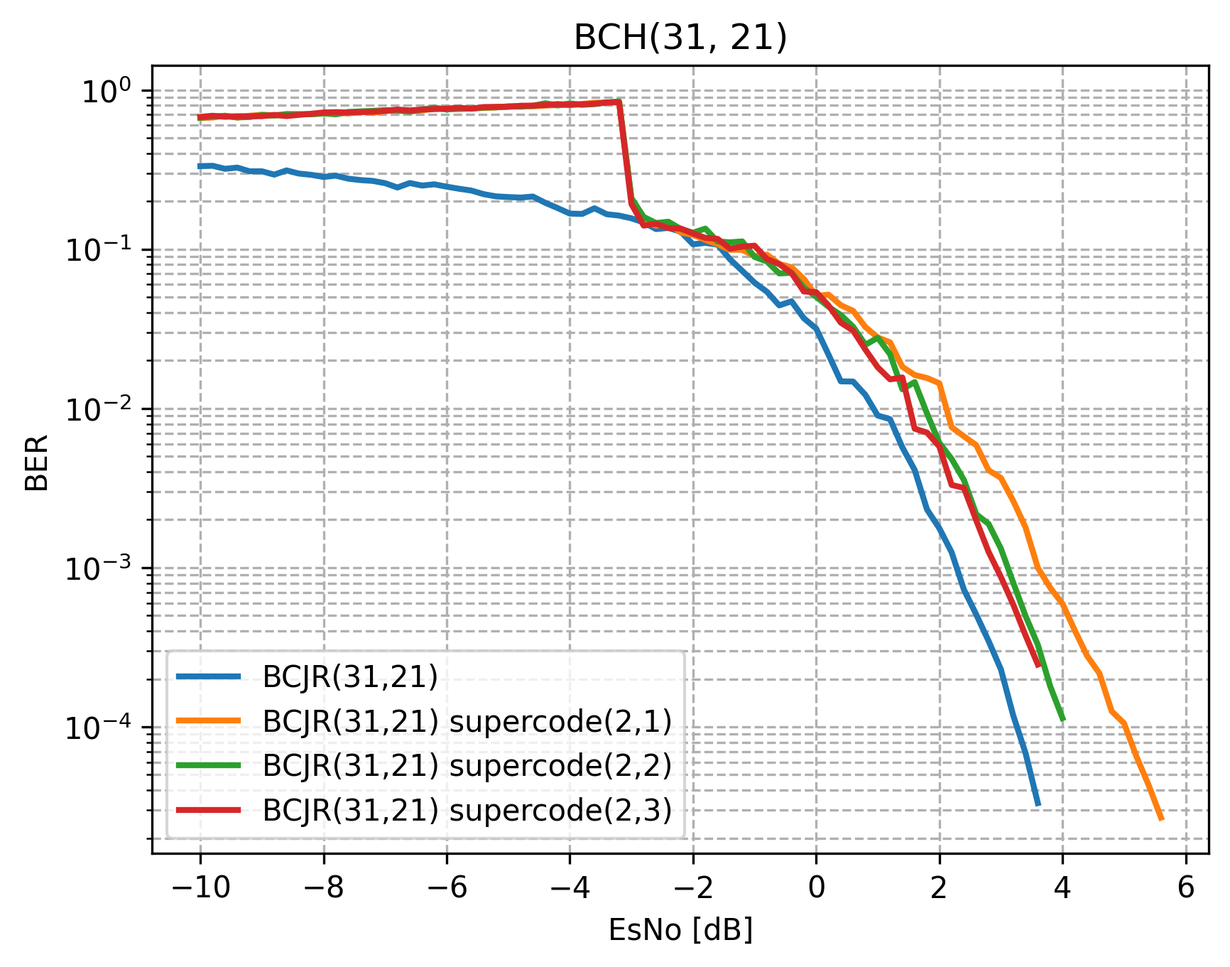
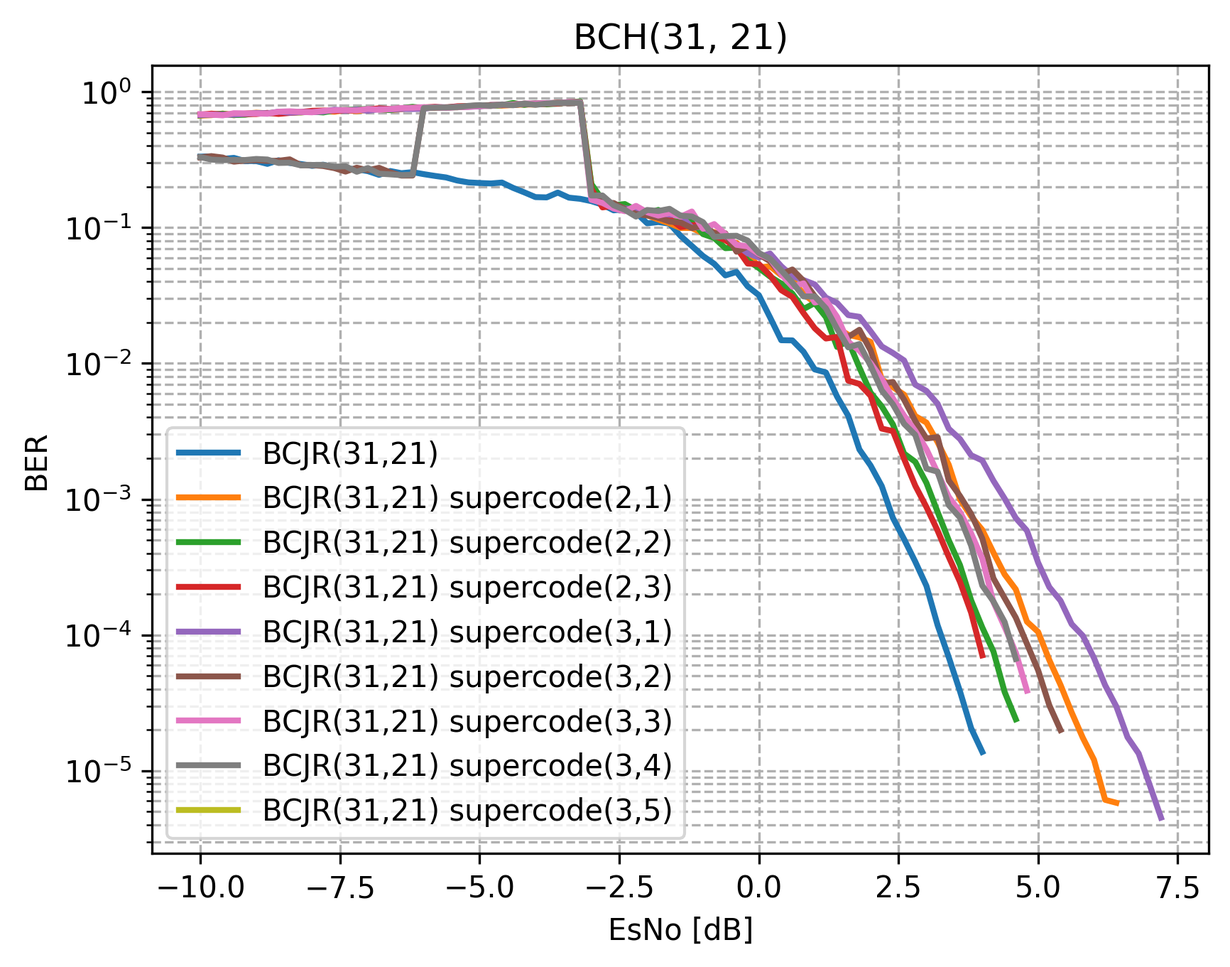
bch31_21 some plots upd

diff --git a/plot_bch_31_21_complex.py b/plot_bch_31_21_complex.py
@@ -1,67 +1,70 @@
 import matplotlib.pyplot as plt
 from scipy.ndimage import gaussian_filter1d
 #-----------------------BCH(31,21) original----------------------------------------------------------------
-esno_bch_31_21 = [-10, -9.8, -9.6, -9.4, -9.2, -9.0, -8.8, -8.6, -8.4, -8.2, -8.0, -7.8, -7.6, -7.4, -7.2, -7.0, -6.8, -6.6, -6.4, -6.2, -6.0, -5.8, -5.6, -5.4, -5.2, -5.0, -4.8, -4.6, -4.4, -4.2, -4.0, -3.8, -3.6, -3.4, -3.2, -3.0, -2.8, -2.6, -2.4, -2.2, -2.0, -1.8, -1.6, -1.4, -1.2, -1.0, -0.8, -0.6, -0.4, -0.2, -0.0, 0.2, 0.4, 0.6, 0.8, 1.0, 1.2, 1.4, 1.6, 1.8, 2, 2.2, 2.4, 2.6, 2.8, 3.0, 3.2, 3.4, 3.6,]
-fer_bch_31_21 = [1.0, 1.0, 1.0, 1.0, 1.0, 1.0, 1.0, 1.0, 1.0, 1.0, 1.0, 1.0, 1.0, 1.0, 1.0, 1.0, 1.0, 1.0, 1.0, 1.0, 1.0, 1.0, 1.0, 1.0, 1.0, 1.0, 1.0, 1.0, 1.0, 1.0, 0.9917355371900827, 0.9917355371900827, 0.9917355371900827, 1.0, 1.0, 0.967741935483871, 0.96, 0.9302325581395349, 0.967741935483871, 0.8888888888888888, 0.821917808219178, 0.7843137254901961, 0.759493670886076, 0.6703910614525139, 0.5429864253393665, 0.46511627906976744, 0.40540540540540543, 0.3418803418803419, 0.32432432432432434, 0.24048096192384769, 0.20761245674740483, 0.1362088535754824, 0.09724473257698542, 0.08836524300441827, 0.07439553626782393, 0.056100981767180924, 0.048484848484848485, 0.03293084522502744, 0.02306805074971165, 0.013211493999779809, 0.009936242444315641, 0.006948465547191662, 0.004155268534229025, 0.0028578913524970827, 0.0019907100199071004, 0.001316049220240837, 0.0006781116849945186, 0.0003866789114988641, 0.00019648470991711917, ]
-ber_bch_31_21 = [0.33252688172043016, 0.33413978494623653, 0.3198924731182796, 0.3255376344086021, 0.3086021505376344, 0.3086021505376344, 0.2940860215053763, 0.3126344086021505, 0.2986559139784946, 0.2932795698924731, 0.28440860215053765, 0.28978494623655915, 0.27741935483870966, 0.27177419354838706, 0.2685483870967742, 0.2599462365591398, 0.24408602150537634, 0.26048387096774195, 0.2510752688172043, 0.25564516129032255, 0.24704301075268817, 0.23978494623655913, 0.2336021505376344, 0.2217741935483871, 0.21478494623655914, 0.21263440860215052, 0.2110215053763441, 0.214247311827957, 0.1956989247311828, 0.1814516129032258, 0.1674220207944548, 0.16662223407091442, 0.18075179952012796, 0.16586021505376344, 0.16263440860215053, 0.15634755463059313, 0.14735483870967742, 0.13378344586146537, 0.13605619146722164, 0.12879330943847073, 0.10737958462218294, 0.10963525195024246, 0.10677827684769294, 0.08650207244548568, 0.07312801050941468, 0.061640410102525627, 0.05405405405405406, 0.04438930245381858, 0.047079337401918046, 0.03684788932704118, 0.0317557763143208, 0.021786093515433345, 0.014795838343702619, 0.014751294598318209, 0.012159270443773374, 0.009018383628165105, 0.008563049853372435, 0.005692078892390496, 0.00410512085922288, 0.002319114403724789, 0.001768223789821762, 0.0012477352111623736, 0.0007271719934900792, 0.0005070452399591598, 0.00034623370507524026, 0.00022960106019793096, 0.00011794039252458429, 6.850037706391168e-05, 3.3189206132627755e-05,]
-plt.plot(esno_bch_31_21, fer_bch_31_21, label="BCJR(31,21)", linewidth=2)
-# plt.plot(esno_bch_31_21, ber_bch_31_21, label="BCJR(31,21)", linewidth=2)
+esno_bch_31_21 = [-10, -9.8, -9.6, -9.4, -9.2, -9.0, -8.8, -8.6, -8.4, -8.2, -8.0, -7.8, -7.6, -7.4, -7.2, -7.0, -6.8, -6.6, -6.4, -6.2, -6.0, -5.8, -5.6, -5.4, -5.2, -5.0, -4.8, -4.6, -4.4, -4.2, -4.0, -3.8, -3.6, -3.4, -3.2, -3.0, -2.8, -2.6, -2.4, -2.2, -2.0, -1.8, -1.6, -1.4, -1.2, -1.0, -0.8, -0.6, -0.4, -0.2, -0.0, 0.2, 0.4, 0.6, 0.8, 1.0, 1.2, 1.4, 1.6, 1.8, 2, 2.2, 2.4, 2.6, 2.8, 3.0, 3.2, 3.4, 3.6, 3.8, 4.0, ]
+fer_bch_31_21 = [1.0, 1.0, 1.0, 1.0, 1.0, 1.0, 1.0, 1.0, 1.0, 1.0, 1.0, 1.0, 1.0, 1.0, 1.0, 1.0, 1.0, 1.0, 1.0, 1.0, 1.0, 1.0, 1.0, 1.0, 1.0, 1.0, 1.0, 1.0, 1.0, 1.0, 0.9917355371900827, 0.9917355371900827, 0.9917355371900827, 1.0, 1.0, 0.967741935483871, 0.96, 0.9302325581395349, 0.967741935483871, 0.8888888888888888, 0.821917808219178, 0.7843137254901961, 0.759493670886076, 0.6703910614525139, 0.5429864253393665, 0.46511627906976744, 0.40540540540540543, 0.3418803418803419, 0.32432432432432434, 0.24048096192384769, 0.20761245674740483, 0.1362088535754824, 0.09724473257698542, 0.08836524300441827, 0.07439553626782393, 0.056100981767180924, 0.048484848484848485, 0.03293084522502744, 0.02306805074971165, 0.013211493999779809, 0.009936242444315641, 0.006948465547191662, 0.004155268534229025, 0.0028578913524970827, 0.0019907100199071004, 0.001316049220240837, 0.0006781116849945186, 0.0003866789114988641, 0.00022117817929809104, 0.00011824267732952855, 8.012023376413538e-05, ]
+ber_bch_31_21 = [0.33252688172043016, 0.33413978494623653, 0.3198924731182796, 0.3255376344086021, 0.3086021505376344, 0.3086021505376344, 0.2940860215053763, 0.3126344086021505, 0.2986559139784946, 0.2932795698924731, 0.28440860215053765, 0.28978494623655915, 0.27741935483870966, 0.27177419354838706, 0.2685483870967742, 0.2599462365591398, 0.24408602150537634, 0.26048387096774195, 0.2510752688172043, 0.25564516129032255, 0.24704301075268817, 0.23978494623655913, 0.2336021505376344, 0.2217741935483871, 0.21478494623655914, 0.21263440860215052, 0.2110215053763441, 0.214247311827957, 0.1956989247311828, 0.1814516129032258, 0.1674220207944548, 0.16662223407091442, 0.18075179952012796, 0.16586021505376344, 0.16263440860215053, 0.15634755463059313, 0.14735483870967742, 0.13378344586146537, 0.13605619146722164, 0.12879330943847073, 0.10737958462218294, 0.10963525195024246, 0.10677827684769294, 0.08650207244548568, 0.07312801050941468, 0.061640410102525627, 0.05405405405405406, 0.04438930245381858, 0.047079337401918046, 0.03684788932704118, 0.0317557763143208, 0.021786093515433345, 0.014795838343702619, 0.014751294598318209, 0.012159270443773374, 0.009018383628165105, 0.008563049853372435, 0.005692078892390496, 0.00410512085922288, 0.002319114403724789, 0.001768223789821762, 0.0012477352111623736, 0.0007271719934900792, 0.0005070452399591598, 0.00034623370507524026, 0.00022960106019793096, 0.00011794039252458429, 6.850037706391168e-05, 3.852781187773199e-05, 2.0597111534821102e-05, 1.376258854174261e-05,]
+# plt.plot(esno_bch_31_21, fer_bch_31_21, label="BCJR(31,21)", linewidth=2)
+plt.plot(esno_bch_31_21, ber_bch_31_21, label="BCJR(31,21)", linewidth=2)
 
 
 #-----------------------BCH(31,21) supercode----------------------------------------------------------------
-esno_bch_31_21_supercode_2_matrix_1_iter = [-10, -9.8, -9.6, -9.4, -9.2, -9.0, -8.8, -8.6, -8.4, -8.2, -8.0, -7.8, -7.6, -7.4, -7.2, -7.0, -6.8, -6.6, -6.4, -6.2, -6.0, -5.8, -5.6, -5.4, -5.2, -5.0, -4.8, -4.6, -4.4, -4.2, -4.0, -3.8, -3.6, -3.4, -3.2, -3.0, -2.8, -2.6, -2.4, -2.2, -2.0, -1.8, -1.6, -1.4, -1.2, -1.0, -0.8, -0.6, -0.4, -0.2, -0.0, 0.2, 0.4, 0.6, 0.8, 1.0, 1.2, 1.4, 1.6, 1.8, 2.0, 2.2, 2.4, 2.6, 2.8, 3.0, 3.2, 3.4, 3.6, 3.8, 4.0, 4.2, 4.4, 4.6, 4.8, 5.0, 5.2, 5.4, 5.6,]
-fer_bch_31_21_supercode_2_matrix_1_iter = [1.0, 1.0, 1.0, 1.0, 1.0, 1.0, 1.0, 1.0, 1.0, 1.0, 1.0, 1.0, 1.0, 1.0, 1.0, 1.0, 1.0, 1.0, 1.0, 1.0, 1.0, 1.0, 1.0, 1.0, 1.0, 1.0, 1.0, 1.0, 1.0, 1.0, 1.0, 1.0, 1.0, 1.0, 1.0, 0.975609756097561, 0.967741935483871, 0.9836065573770492, 0.9836065573770492, 0.96, 0.9523809523809523, 0.8888888888888888, 0.8759124087591241, 0.8955223880597015, 0.8, 0.7792207792207793, 0.7643312101910829, 0.75, 0.7017543859649122, 0.6779661016949152, 0.5309734513274337, 0.5286343612334802, 0.5063291139240507, 0.45112781954887216, 0.3870967741935484, 0.33240997229916897, 0.2977667493796526, 0.23255813953488372, 0.2185792349726776, 0.19639934533551553, 0.192, 0.1343784994400896, 0.10752688172043011, 0.09036144578313253, 0.065323897659227, 0.05946481665014866, 0.044626255113425065, 0.03560830860534125, 0.021197668256491786, 0.016183412002697236, 0.012918505759500484, 0.009155413138017853, 0.006532034184312231, 0.004884800130261337, 0.0032344141667340503, 0.0026467863602276237, 0.0018270401948842874, 0.001219884111009454, 0.0007881411035289018,]
-ber_bch_31_21_supercode_2_matrix_1_iter = [0.6666666666666666, 0.6717741935483871, 0.6900537634408602, 0.6706989247311828, 0.6889784946236559, 0.7, 0.693010752688172, 0.707258064516129, 0.703763440860215, 0.7040322580645161, 0.7126344086021505, 0.7196236559139785, 0.7126344086021505, 0.7295698924731183, 0.7182795698924731, 0.7365591397849462, 0.7454301075268818, 0.7330645161290322, 0.7440860215053764, 0.7634408602150538, 0.7591397849462366, 0.7591397849462366, 0.7669354838709678, 0.771505376344086, 0.7774193548387097, 0.7908602150537635, 0.7943548387096775, 0.789516129032258, 0.7978494623655913, 0.8048387096774193, 0.8040322580645162, 0.8169354838709677, 0.831989247311828, 0.831989247311828, 0.8422043010752688, 0.20744820351429322, 0.14698231009365245, 0.1404019037546272, 0.14436805922792173, 0.1272258064516129, 0.12314388120839734, 0.11445639187574672, 0.10736990817047327, 0.09918151179585942, 0.09913978494623656, 0.09049015500628405, 0.09245942058763099, 0.08084677419354838, 0.07696661007357103, 0.06506287588846364, 0.05081358835284042, 0.05186869404575813, 0.04450796243364639, 0.04098957070094591, 0.03246618106139438, 0.027879546063801268, 0.026014568158168577, 0.01825456364091023, 0.01621716904635995, 0.015521883744258488, 0.0144, 0.007622006285445942, 0.0066770724939299335, 0.005878352118150019, 0.004091523697473089, 0.0036606029604527, 0.0026271908252258305, 0.00178998755623624, 0.0009972021357220599, 0.0007482652861462163, 0.0005938345389447804, 0.00040362574049326015, 0.0002791917836843131, 0.00021666452190675283, 0.00012520312903486648, 0.00010530225304131406, 6.532159836548662e-05, 4.295828455436518e-05, 2.6906967781766272e-05,]
-plt.plot(esno_bch_31_21_supercode_2_matrix_1_iter, fer_bch_31_21_supercode_2_matrix_1_iter, label="BCJR(31,21) supercode(2,1)", linewidth=2)
-# plt.plot(esno_bch_31_21_supercode_2_matrix_1_iter, ber_bch_31_21_supercode_2_matrix_1_iter, label="BCJR(31,21) supercode(2,1)", linewidth=2)
+esno_bch_31_21_supercode_2_matrix_1_iter = [-10, -9.8, -9.6, -9.4, -9.2, -9.0, -8.8, -8.6, -8.4, -8.2, -8.0, -7.8, -7.6, -7.4, -7.2, -7.0, -6.8, -6.6, -6.4, -6.2, -6.0, -5.8, -5.6, -5.4, -5.2, -5.0, -4.8, -4.6, -4.4, -4.2, -4.0, -3.8, -3.6, -3.4, -3.2, -3.0, -2.8, -2.6, -2.4, -2.2, -2.0, -1.8, -1.6, -1.4, -1.2, -1.0, -0.8, -0.6, -0.4, -0.2, -0.0, 0.2, 0.4, 0.6, 0.8, 1.0, 1.2, 1.4, 1.6, 1.8, 2.0, 2.2, 2.4, 2.6, 2.8, 3.0, 3.2, 3.4, 3.6, 3.8, 4.0, 4.2, 4.4, 4.6, 4.8, 5.0, 5.2, 5.4, 5.6, 5.8, 6.0, 6.2, 6.4,]
+fer_bch_31_21_supercode_2_matrix_1_iter = [1.0, 1.0, 1.0, 1.0, 1.0, 1.0, 1.0, 1.0, 1.0, 1.0, 1.0, 1.0, 1.0, 1.0, 1.0, 1.0, 1.0, 1.0, 1.0, 1.0, 1.0, 1.0, 1.0, 1.0, 1.0, 1.0, 1.0, 1.0, 1.0, 1.0, 1.0, 1.0, 1.0, 1.0, 1.0, 0.975609756097561, 0.967741935483871, 0.9836065573770492, 0.9836065573770492, 0.96, 0.9523809523809523, 0.8888888888888888, 0.8759124087591241, 0.8955223880597015, 0.8, 0.7792207792207793, 0.7643312101910829, 0.75, 0.7017543859649122, 0.6779661016949152, 0.5309734513274337, 0.5286343612334802, 0.5063291139240507, 0.45112781954887216, 0.3870967741935484, 0.33240997229916897, 0.2977667493796526, 0.23255813953488372, 0.2185792349726776, 0.19639934533551553, 0.192, 0.1343784994400896, 0.10752688172043011, 0.09036144578313253, 0.065323897659227, 0.05946481665014866, 0.044626255113425065, 0.03560830860534125, 0.021197668256491786, 0.016183412002697236, 0.012918505759500484, 0.009155413138017853, 0.006532034184312231, 0.004884800130261337, 0.0032344141667340503, 0.0026467863602276237, 0.0018270401948842874, 0.001219884111009454, 0.0007881411035289018, 0.0005001396223112285, 0.00036158409994184524, 0.00018627205965673164, 0.0001433549970427677,]
+ber_bch_31_21_supercode_2_matrix_1_iter = [0.6666666666666666, 0.6717741935483871, 0.6900537634408602, 0.6706989247311828, 0.6889784946236559, 0.7, 0.693010752688172, 0.707258064516129, 0.703763440860215, 0.7040322580645161, 0.7126344086021505, 0.7196236559139785, 0.7126344086021505, 0.7295698924731183, 0.7182795698924731, 0.7365591397849462, 0.7454301075268818, 0.7330645161290322, 0.7440860215053764, 0.7634408602150538, 0.7591397849462366, 0.7591397849462366, 0.7669354838709678, 0.771505376344086, 0.7774193548387097, 0.7908602150537635, 0.7943548387096775, 0.789516129032258, 0.7978494623655913, 0.8048387096774193, 0.8040322580645162, 0.8169354838709677, 0.831989247311828, 0.831989247311828, 0.8422043010752688, 0.20744820351429322, 0.14698231009365245, 0.1404019037546272, 0.14436805922792173, 0.1272258064516129, 0.12314388120839734, 0.11445639187574672, 0.10736990817047327, 0.09918151179585942, 0.09913978494623656, 0.09049015500628405, 0.09245942058763099, 0.08084677419354838, 0.07696661007357103, 0.06506287588846364, 0.05081358835284042, 0.05186869404575813, 0.04450796243364639, 0.04098957070094591, 0.03246618106139438, 0.027879546063801268, 0.026014568158168577, 0.01825456364091023, 0.01621716904635995, 0.015521883744258488, 0.0144, 0.007622006285445942, 0.0066770724939299335, 0.005878352118150019, 0.004091523697473089, 0.0036606029604527, 0.0026271908252258305, 0.00178998755623624, 0.0009972021357220599, 0.0007482652861462163, 0.0005938345389447804, 0.00040362574049326015, 0.0002791917836843131, 0.00021666452190675283, 0.00012520312903486648, 0.00010530225304131406, 6.532159836548662e-05, 4.295828455436518e-05, 2.6906967781766272e-05, 1.7477997553887017e-05, 1.2052803331394841e-05, 6.108922386591737e-06, 5.8113945877714665e-06,]
+# plt.plot(esno_bch_31_21_supercode_2_matrix_1_iter, fer_bch_31_21_supercode_2_matrix_1_iter, label="BCJR(31,21) supercode(2,1)", linewidth=2)
+plt.plot(esno_bch_31_21_supercode_2_matrix_1_iter, ber_bch_31_21_supercode_2_matrix_1_iter, label="BCJR(31,21) supercode(2,1)", linewidth=2)
 
 
-esno_bch_31_21_supercode_2_matrix_2_iter = [-10, -9.8, -9.6, -9.4, -9.2, -9.0, -8.8, -8.6, -8.4, -8.2, -8.0, -7.8, -7.6, -7.4, -7.2, -7.0, -6.8, -6.6, -6.4, -6.2, -6.0, -5.8, -5.6, -5.4, -5.2, -5.0, -4.8, -4.6, -4.4, -4.2, -4.0, -3.8, -3.6, -3.4, -3.2, -3.0, -2.8, -2.6, -2.4, -2.2, -2.0, -1.8, -1.6, -1.4, -1.2, -1.0, -0.8, -0.6, -0.4, -0.2, -0.0, 0.2, 0.4, 0.6, 0.8, 1.0, 1.2, 1.4, 1.6, 1.8, 2.0, 2.2, 2.4, 2.6, 2.8, 3.0, 3.2, 3.4, 3.6, 3.8, 4.0,]
-fer_bch_31_21_supercode_2_matrix_2_iter = [1.0, 1.0, 1.0, 1.0, 1.0, 1.0, 1.0, 1.0, 1.0, 1.0, 1.0, 1.0, 1.0, 1.0, 1.0, 1.0, 1.0, 1.0, 1.0, 1.0, 1.0, 1.0, 1.0, 1.0, 1.0, 1.0, 1.0, 1.0, 1.0, 1.0, 1.0, 1.0, 1.0, 1.0, 1.0, 0.9917355371900827, 0.9836065573770492, 0.96, 0.9448818897637795, 0.9022556390977443, 0.8633093525179856, 0.9230769230769231, 0.7894736842105263, 0.7741935483870968, 0.7317073170731707, 0.6349206349206349, 0.5741626794258373, 0.4897959183673469, 0.4897959183673469, 0.4316546762589928, 0.375, 0.3133159268929504, 0.2857142857142857, 0.2597402597402597, 0.19138755980861244, 0.21897810218978103, 0.17543859649122806, 0.12486992715920915, 0.11417697431018078, 0.08333333333333333, 0.05862237420615535, 0.04631416441528367, 0.03428571428571429, 0.023464998044583497, 0.01882648258550361, 0.015170670037926675, 0.008913980092111128, 0.0054456344164095115, 0.0036711842628567933, 0.0023938716884774978, 0.0015356658391134088,]
-ber_bch_31_21_supercode_2_matrix_2_iter = [0.6704301075268817, 0.6803763440860214, 0.6879032258064516, 0.6728494623655913, 0.6766129032258064, 0.6956989247311828, 0.6911290322580645, 0.7026881720430108, 0.7045698924731183, 0.7043010752688172, 0.7131720430107527, 0.7032258064516129, 0.728225806451613, 0.7338709677419355, 0.739516129032258, 0.746505376344086, 0.743010752688172, 0.731720430107527, 0.7545698924731182, 0.7733870967741936, 0.7551075268817204, 0.7650537634408603, 0.7639784946236559, 0.7758064516129032, 0.7776881720430108, 0.7879032258064516, 0.785752688172043, 0.7959677419354839, 0.8255376344086022, 0.7991935483870968, 0.8241935483870968, 0.8067204301075269, 0.8166666666666667, 0.8341397849462365, 0.8475806451612903, 0.20927752599306854, 0.15943945002644105, 0.14606451612903226, 0.14884429768859536, 0.134125636672326, 0.12694360640519842, 0.1347394540942928, 0.1118421052631579, 0.1105098855359001, 0.11191974822974037, 0.08943505717699266, 0.08380922981941658, 0.07044107965766952, 0.07109940750493746, 0.05732188442794152, 0.050302419354838715, 0.04354417586119767, 0.038632872503840246, 0.03260717776846809, 0.025106755157688943, 0.027784318342359313, 0.02188266364836823, 0.013191903595045483, 0.01464043460912802, 0.009296594982078852, 0.006082859259025797, 0.004818167104493221, 0.0035483870967741938, 0.0021635737444333706, 0.0018826482585503608, 0.0013172382855511603, 0.0008051336857390696, 0.0004977192746180736, 0.0003276433266850686, 0.00018018389053056435, 0.00011352368434306115,]
-plt.plot(esno_bch_31_21_supercode_2_matrix_2_iter, fer_bch_31_21_supercode_2_matrix_2_iter, label="BCJR(31,21) supercode(2,2)", linewidth=2)
-# plt.plot(esno_bch_31_21_supercode_2_matrix_2_iter, ber_bch_31_21_supercode_2_matrix_2_iter, label="BCJR(31,21) supercode(2,2)", linewidth=2)
+esno_bch_31_21_supercode_2_matrix_2_iter = [-10, -9.8, -9.6, -9.4, -9.2, -9.0, -8.8, -8.6, -8.4, -8.2, -8.0, -7.8, -7.6, -7.4, -7.2, -7.0, -6.8, -6.6, -6.4, -6.2, -6.0, -5.8, -5.6, -5.4, -5.2, -5.0, -4.8, -4.6, -4.4, -4.2, -4.0, -3.8, -3.6, -3.4, -3.2, -3.0, -2.8, -2.6, -2.4, -2.2, -2.0, -1.8, -1.6, -1.4, -1.2, -1.0, -0.8, -0.6, -0.4, -0.2, -0.0, 0.2, 0.4, 0.6, 0.8, 1.0, 1.2, 1.4, 1.6, 1.8, 2.0, 2.2, 2.4, 2.6, 2.8, 3.0, 3.2, 3.4, 3.6, 3.8, 4.0, 4.2, 4.4, 4.6,]
+fer_bch_31_21_supercode_2_matrix_2_iter = [1.0, 1.0, 1.0, 1.0, 1.0, 1.0, 1.0, 1.0, 1.0, 1.0, 1.0, 1.0, 1.0, 1.0, 1.0, 1.0, 1.0, 1.0, 1.0, 1.0, 1.0, 1.0, 1.0, 1.0, 1.0, 1.0, 1.0, 1.0, 1.0, 1.0, 1.0, 1.0, 1.0, 1.0, 1.0, 0.9917355371900827, 0.9836065573770492, 0.96, 0.9448818897637795, 0.9022556390977443, 0.8633093525179856, 0.9230769230769231, 0.7894736842105263, 0.7741935483870968, 0.7317073170731707, 0.6349206349206349, 0.5741626794258373, 0.4897959183673469, 0.4897959183673469, 0.4316546762589928, 0.375, 0.3133159268929504, 0.2857142857142857, 0.2597402597402597, 0.19138755980861244, 0.21897810218978103, 0.17543859649122806, 0.12486992715920915, 0.11417697431018078, 0.08333333333333333, 0.05862237420615535, 0.04631416441528367, 0.03428571428571429, 0.023464998044583497, 0.01882648258550361, 0.015170670037926675, 0.008913980092111128, 0.0054456344164095115, 0.0036711842628567933, 0.0023938716884774978, 0.0015356658391134088, 0.0009758398321555488, 0.0005846756511825065, 0.0003776233018752144,]
+ber_bch_31_21_supercode_2_matrix_2_iter = [0.6704301075268817, 0.6803763440860214, 0.6879032258064516, 0.6728494623655913, 0.6766129032258064, 0.6956989247311828, 0.6911290322580645, 0.7026881720430108, 0.7045698924731183, 0.7043010752688172, 0.7131720430107527, 0.7032258064516129, 0.728225806451613, 0.7338709677419355, 0.739516129032258, 0.746505376344086, 0.743010752688172, 0.731720430107527, 0.7545698924731182, 0.7733870967741936, 0.7551075268817204, 0.7650537634408603, 0.7639784946236559, 0.7758064516129032, 0.7776881720430108, 0.7879032258064516, 0.785752688172043, 0.7959677419354839, 0.8255376344086022, 0.7991935483870968, 0.8241935483870968, 0.8067204301075269, 0.8166666666666667, 0.8341397849462365, 0.8475806451612903, 0.20927752599306854, 0.15943945002644105, 0.14606451612903226, 0.14884429768859536, 0.134125636672326, 0.12694360640519842, 0.1347394540942928, 0.1118421052631579, 0.1105098855359001, 0.11191974822974037, 0.08943505717699266, 0.08380922981941658, 0.07044107965766952, 0.07109940750493746, 0.05732188442794152, 0.050302419354838715, 0.04354417586119767, 0.038632872503840246, 0.03260717776846809, 0.025106755157688943, 0.027784318342359313, 0.02188266364836823, 0.013191903595045483, 0.01464043460912802, 0.009296594982078852, 0.006082859259025797, 0.004818167104493221, 0.0035483870967741938, 0.0021635737444333706, 0.0018826482585503608, 0.0013172382855511603, 0.0008051336857390696, 0.0004977192746180736, 0.0003276433266850686, 0.00018018389053056435, 0.00011352368434306115, 7.554889023139734e-05, 3.803535150165768e-05, 2.3956747108212527e-05,]
+# plt.plot(esno_bch_31_21_supercode_2_matrix_2_iter, fer_bch_31_21_supercode_2_matrix_2_iter, label="BCJR(31,21) supercode(2,2)", linewidth=2)
+plt.plot(esno_bch_31_21_supercode_2_matrix_2_iter, ber_bch_31_21_supercode_2_matrix_2_iter, label="BCJR(31,21) supercode(2,2)", linewidth=2)
 
 
-esno_bch_31_21_supercode_2_matrix_3_iter = [-10, -9.8, -9.6, -9.4, -9.2, -9.0, -8.8, -8.6, -8.4, -8.2, -8.0, -7.8, -7.6, -7.4, -7.2, -7.0, -6.8, -6.6, -6.4, -6.2, -6.0, -5.8, -5.6, -5.4, -5.2, -5.0, -4.8, -4.6, -4.4, -4.2, -4.0, -3.8, -3.6, -3.4, -3.2, -3.0, -2.8, -2.6, -2.4, -2.2, -2.0, -1.8, -1.6, -1.4, -1.2, -1.0, -0.8, -0.6, -0.4, -0.2, 0.0, 0.2, 0.4, 0.6, 0.8, 1.0, 1.2, 1.4, 1.6, 1.8, 2.0, 2.2, 2.4, 2.6, 2.8, 3.0, 3.2, 3.4, 3.6,]
-fer_bch_31_21_supercode_2_matrix_3_iter = [1.0, 1.0, 1.0, 1.0, 1.0, 1.0, 1.0, 1.0, 1.0, 1.0, 1.0, 1.0, 1.0, 1.0, 1.0, 1.0, 1.0, 1.0, 1.0, 1.0, 1.0, 1.0, 1.0, 1.0, 1.0, 1.0, 1.0, 1.0, 1.0, 1.0, 1.0, 1.0, 1.0, 1.0, 1.0, 0.975609756097561, 0.96, 0.9302325581395349, 0.8888888888888888, 0.9375, 0.821917808219178, 0.8, 0.7272727272727273, 0.6349206349206349, 0.6185567010309279, 0.6091370558375635, 0.5042016806722689, 0.45627376425855515, 0.44280442804428044, 0.32697547683923706, 0.3468208092485549, 0.3022670025188917, 0.22727272727272727, 0.20689655172413793, 0.1724137931034483, 0.13872832369942195, 0.12207527975584945, 0.11594202898550725, 0.06289308176100629, 0.060453400503778336, 0.046948356807511735, 0.03051106025934401, 0.026554547466253596, 0.017436791630340016, 0.010643959552953698, 0.008696282339299949, 0.005346878759524128, 0.003554081269991707, 0.0024694914905439057, ]
-ber_bch_31_21_supercode_2_matrix_3_iter = [0.6776881720430108, 0.6889784946236559, 0.6787634408602151, 0.6841397849462365, 0.6841397849462365, 0.6849462365591398, 0.6975806451612903, 0.6860215053763441, 0.6978494623655913, 0.7091397849462365, 0.7225806451612903, 0.7260752688172043, 0.7220430107526882, 0.7266129032258064, 0.7306451612903225, 0.739516129032258, 0.7540322580645161, 0.7443548387096774, 0.7537634408602151, 0.7591397849462366, 0.7647849462365592, 0.7731182795698925, 0.7634408602150538, 0.7811827956989247, 0.7838709677419354, 0.7838709677419354, 0.796236559139785, 0.7981182795698926, 0.8048387096774193, 0.8155913978494624, 0.8077956989247312, 0.814247311827957, 0.8188172043010753, 0.8362903225806452, 0.8352150537634409, 0.19223708366115919, 0.1406451612903226, 0.14453613403350837, 0.13572281959378735, 0.13482862903225806, 0.1254971277065842, 0.11784946236559139, 0.11612903225806451, 0.10087045570916539, 0.10375789823744595, 0.10528901260848207, 0.0867443751694226, 0.08070648840917453, 0.07094393524580407, 0.0542322229058627, 0.053794517993660265, 0.04436499553099862, 0.03457966764418377, 0.03081201334816463, 0.02340563589173155, 0.018124184225247062, 0.01522659403406294, 0.015645940470624904, 0.007455873402312843, 0.007052896725440806, 0.00576758039275077, 0.0033053648614289346, 0.003169413729843171, 0.0019780446419364215, 0.0012561016784265252, 0.0008743036545425217, 0.0005864318639478076, 0.0003754714890071884, 0.0002462853072558572,]
-plt.plot(esno_bch_31_21_supercode_2_matrix_3_iter, fer_bch_31_21_supercode_2_matrix_3_iter, label="BCJR(31,21) supercode(2,3)", linewidth=2)
-# plt.plot(esno_bch_31_21_supercode_2_matrix_3_iter, ber_bch_31_21_supercode_2_matrix_3_iter, label="BCJR(31,21) supercode(2,3)", linewidth=2)
+esno_bch_31_21_supercode_2_matrix_3_iter = [-10, -9.8, -9.6, -9.4, -9.2, -9.0, -8.8, -8.6, -8.4, -8.2, -8.0, -7.8, -7.6, -7.4, -7.2, -7.0, -6.8, -6.6, -6.4, -6.2, -6.0, -5.8, -5.6, -5.4, -5.2, -5.0, -4.8, -4.6, -4.4, -4.2, -4.0, -3.8, -3.6, -3.4, -3.2, -3.0, -2.8, -2.6, -2.4, -2.2, -2.0, -1.8, -1.6, -1.4, -1.2, -1.0, -0.8, -0.6, -0.4, -0.2, 0.0, 0.2, 0.4, 0.6, 0.8, 1.0, 1.2, 1.4, 1.6, 1.8, 2.0, 2.2, 2.4, 2.6, 2.8, 3.0, 3.2, 3.4, 3.6, 3.8, 4.0,]
+fer_bch_31_21_supercode_2_matrix_3_iter = [1.0, 1.0, 1.0, 1.0, 1.0, 1.0, 1.0, 1.0, 1.0, 1.0, 1.0, 1.0, 1.0, 1.0, 1.0, 1.0, 1.0, 1.0, 1.0, 1.0, 1.0, 1.0, 1.0, 1.0, 1.0, 1.0, 1.0, 1.0, 1.0, 1.0, 1.0, 1.0, 1.0, 1.0, 1.0, 0.975609756097561, 0.96, 0.9302325581395349, 0.8888888888888888, 0.9375, 0.821917808219178, 0.8, 0.7272727272727273, 0.6349206349206349, 0.6185567010309279, 0.6091370558375635, 0.5042016806722689, 0.45627376425855515, 0.44280442804428044, 0.32697547683923706, 0.3468208092485549, 0.3022670025188917, 0.22727272727272727, 0.20689655172413793, 0.1724137931034483, 0.13872832369942195, 0.12207527975584945, 0.11594202898550725, 0.06289308176100629, 0.060453400503778336, 0.046948356807511735, 0.03051106025934401, 0.026554547466253596, 0.017436791630340016, 0.010643959552953698, 0.008696282339299949, 0.005346878759524128, 0.003554081269991707, 0.0024694914905439057, 0.0014078723529066697, 0.0007721361790841179, ]
+ber_bch_31_21_supercode_2_matrix_3_iter = [0.6776881720430108, 0.6889784946236559, 0.6787634408602151, 0.6841397849462365, 0.6841397849462365, 0.6849462365591398, 0.6975806451612903, 0.6860215053763441, 0.6978494623655913, 0.7091397849462365, 0.7225806451612903, 0.7260752688172043, 0.7220430107526882, 0.7266129032258064, 0.7306451612903225, 0.739516129032258, 0.7540322580645161, 0.7443548387096774, 0.7537634408602151, 0.7591397849462366, 0.7647849462365592, 0.7731182795698925, 0.7634408602150538, 0.7811827956989247, 0.7838709677419354, 0.7838709677419354, 0.796236559139785, 0.7981182795698926, 0.8048387096774193, 0.8155913978494624, 0.8077956989247312, 0.814247311827957, 0.8188172043010753, 0.8362903225806452, 0.8352150537634409, 0.19223708366115919, 0.1406451612903226, 0.14453613403350837, 0.13572281959378735, 0.13482862903225806, 0.1254971277065842, 0.11784946236559139, 0.11612903225806451, 0.10087045570916539, 0.10375789823744595, 0.10528901260848207, 0.0867443751694226, 0.08070648840917453, 0.07094393524580407, 0.0542322229058627, 0.053794517993660265, 0.04436499553099862, 0.03457966764418377, 0.03081201334816463, 0.02340563589173155, 0.018124184225247062, 0.01522659403406294, 0.015645940470624904, 0.007455873402312843, 0.007052896725440806, 0.00576758039275077, 0.0033053648614289346, 0.003169413729843171, 0.0019780446419364215, 0.0012561016784265252, 0.0008743036545425217, 0.0005864318639478076, 0.0003754714890071884, 0.0002462853072558572, 0.00014608567962956303, 7.077914974937747e-05,]
+# plt.plot(esno_bch_31_21_supercode_2_matrix_3_iter, fer_bch_31_21_supercode_2_matrix_3_iter, label="BCJR(31,21) supercode(2,3)", linewidth=2)
+plt.plot(esno_bch_31_21_supercode_2_matrix_3_iter, ber_bch_31_21_supercode_2_matrix_3_iter, label="BCJR(31,21) supercode(2,3)", linewidth=2)
 
 
-esno_bch_31_21_supercode_3_matrix_1_iter = [-10, -9.8, -9.6, -9.4, -9.2, -9.0, -8.8, -8.6, -8.4, -8.2, -8.0, -7.8, -7.6, -7.4, -7.2, -7.0, -6.8, -6.6, -6.4, -6.2, -6.0, -5.8, -5.6, -5.4, -5.2, -5.0, -4.8, -4.6, -4.4, -4.2, -4.0, -3.8, -3.6, -3.4, -3.2, -3.0, -2.8, -2.6, -2.4, -2.2, -2.0, -1.8, -1.6, -1.4, -1.2, -1.0, -0.8, -0.6, -0.4, -0.2, -0.0, 0.2, 0.4, 0.6, 0.8, 1.0, 1.2, 1.4, 1.6, 1.8, 2.0, 2.2, 2.4, 2.6, 2.8, 3.0, 3.2, 3.4, 3.6, 3.8, 4.0, 4.2, 4.4, 4.6, 4.8, 5.0, 5.2, 5.4, 5.6, 5.8, 6.0, 6.2, 6.4, 6.6, 6.8,]
-fer_bch_31_21_supercode_3_matrix_1_iter = [1.0, 1.0, 1.0, 1.0, 1.0, 1.0, 1.0, 1.0, 1.0, 1.0, 1.0, 1.0, 1.0, 1.0, 1.0, 1.0, 1.0, 1.0, 1.0, 1.0, 1.0, 1.0, 1.0, 1.0, 1.0, 1.0, 1.0, 1.0, 1.0, 1.0, 1.0, 1.0, 1.0, 1.0, 1.0, 0.967741935483871, 1.0, 0.9917355371900827, 0.9917355371900827, 0.9917355371900827, 0.975609756097561, 0.96, 0.975609756097561, 0.96, 0.8888888888888888, 0.8888888888888888, 0.8333333333333334, 0.8163265306122449, 0.7792207792207793, 0.718562874251497, 0.6349206349206349, 0.7058823529411765, 0.594059405940594, 0.5309734513274337, 0.5, 0.47244094488188976, 0.4195804195804196, 0.4013377926421405, 0.3761755485893417, 0.32608695652173914, 0.27149321266968324, 0.22727272727272727, 0.22058823529411764, 0.1744186046511628, 0.13498312710911137, 0.12012012012012012, 0.10899182561307902, 0.07177033492822966, 0.06329113924050633, 0.04803843074459568, 0.04713275726630008, 0.03575685339690107, 0.023469587326422844, 0.01927710843373494, 0.016266775111834077, 0.009387467730579677, 0.006155740227762389, 0.005043500189131257, 0.003240090722540231, 0.002913894419892186, 0.0019205531192983578, 0.0012381217692760084, 0.0009146690041541217, 0.0005430601439109381, 0.0004085662728541759,]
-ber_bch_31_21_supercode_3_matrix_1_iter = [0.6736559139784947, 0.6776881720430108, 0.6768817204301075, 0.6774193548387097, 0.6868279569892474, 0.696505376344086, 0.6922043010752688, 0.7123655913978495, 0.7008064516129032, 0.7080645161290323, 0.707258064516129, 0.7131720430107527, 0.7370967741935484, 0.725268817204301, 0.7379032258064516, 0.7239247311827958, 0.7432795698924731, 0.7400537634408603, 0.7462365591397849, 0.7456989247311828, 0.7486559139784946, 0.7685483870967741, 0.7674731182795699, 0.7706989247311828, 0.7728494623655914, 0.7803763440860215, 0.7981182795698926, 0.7967741935483871, 0.8029569892473118, 0.814247311827957, 0.8150537634408602, 0.8244623655913978, 0.8268817204301074, 0.8279569892473119, 0.8344086021505376, 0.17299687825182103, 0.16693548387096774, 0.1474273527059451, 0.13836310317248735, 0.13516395627832578, 0.13139260424862312, 0.1272258064516129, 0.12431156569630213, 0.12283870967741936, 0.0998805256869773, 0.1010752688172043, 0.08848566308243727, 0.08624094799210007, 0.07436112274821952, 0.06451612903225806, 0.060249189281447346, 0.06432637571157496, 0.051900351325455125, 0.04381958321438766, 0.04099462365591398, 0.0381000762001524, 0.030453417550191743, 0.027834717876793612, 0.02265143088279907, 0.02200210378681627, 0.01722376295431324, 0.013318670576735093, 0.011918880455407968, 0.010502625656414103, 0.006966871076599296, 0.006264328844974006, 0.005039406990712256, 0.0032991202346041057, 0.0027732407785490674, 0.002104909734239004, 0.0019258545979778526, 0.0013649121457956863, 0.0010094446161902299, 0.000725482575463143, 0.0005859537271467114, 0.0003406742321581334, 0.00022504856746658193, 0.00017896290993691557, 0.00012019691390068598, 9.869642389957404e-05, 6.763238135163571e-05, 4.260203937293792e-05, 2.9751330511464714e-05, 1.7664053068070838e-05, 1.3399216475325123e-05,]
-plt.plot(esno_bch_31_21_supercode_3_matrix_1_iter, fer_bch_31_21_supercode_3_matrix_1_iter, label="BCJR(31,21) supercode(3,1)", linewidth=2)
+esno_bch_31_21_supercode_3_matrix_1_iter = [-10, -9.8, -9.6, -9.4, -9.2, -9.0, -8.8, -8.6, -8.4, -8.2, -8.0, -7.8, -7.6, -7.4, -7.2, -7.0, -6.8, -6.6, -6.4, -6.2, -6.0, -5.8, -5.6, -5.4, -5.2, -5.0, -4.8, -4.6, -4.4, -4.2, -4.0, -3.8, -3.6, -3.4, -3.2, -3.0, -2.8, -2.6, -2.4, -2.2, -2.0, -1.8, -1.6, -1.4, -1.2, -1.0, -0.8, -0.6, -0.4, -0.2, -0.0, 0.2, 0.4, 0.6, 0.8, 1.0, 1.2, 1.4, 1.6, 1.8, 2.0, 2.2, 2.4, 2.6, 2.8, 3.0, 3.2, 3.4, 3.6, 3.8, 4.0, 4.2, 4.4, 4.6, 4.8, 5.0, 5.2, 5.4, 5.6, 5.8, 6.0, 6.2, 6.4, 6.6, 6.8, 7.0, 7.2,]
+fer_bch_31_21_supercode_3_matrix_1_iter = [1.0, 1.0, 1.0, 1.0, 1.0, 1.0, 1.0, 1.0, 1.0, 1.0, 1.0, 1.0, 1.0, 1.0, 1.0, 1.0, 1.0, 1.0, 1.0, 1.0, 1.0, 1.0, 1.0, 1.0, 1.0, 1.0, 1.0, 1.0, 1.0, 1.0, 1.0, 1.0, 1.0, 1.0, 1.0, 0.967741935483871, 1.0, 0.9917355371900827, 0.9917355371900827, 0.9917355371900827, 0.975609756097561, 0.96, 0.975609756097561, 0.96, 0.8888888888888888, 0.8888888888888888, 0.8333333333333334, 0.8163265306122449, 0.7792207792207793, 0.718562874251497, 0.6349206349206349, 0.7058823529411765, 0.594059405940594, 0.5309734513274337, 0.5, 0.47244094488188976, 0.4195804195804196, 0.4013377926421405, 0.3761755485893417, 0.32608695652173914, 0.27149321266968324, 0.22727272727272727, 0.22058823529411764, 0.1744186046511628, 0.13498312710911137, 0.12012012012012012, 0.10899182561307902, 0.07177033492822966, 0.06329113924050633, 0.04803843074459568, 0.04713275726630008, 0.03575685339690107, 0.023469587326422844, 0.01927710843373494, 0.016266775111834077, 0.009387467730579677, 0.006155740227762389, 0.005043500189131257, 0.003240090722540231, 0.002913894419892186, 0.0019205531192983578, 0.0012381217692760084, 0.0009146690041541217, 0.0005430601439109381, 0.0004085662728541759, 0.00023809193126285945, 0.0001377691952671689,]
+ber_bch_31_21_supercode_3_matrix_1_iter = [0.6736559139784947, 0.6776881720430108, 0.6768817204301075, 0.6774193548387097, 0.6868279569892474, 0.696505376344086, 0.6922043010752688, 0.7123655913978495, 0.7008064516129032, 0.7080645161290323, 0.707258064516129, 0.7131720430107527, 0.7370967741935484, 0.725268817204301, 0.7379032258064516, 0.7239247311827958, 0.7432795698924731, 0.7400537634408603, 0.7462365591397849, 0.7456989247311828, 0.7486559139784946, 0.7685483870967741, 0.7674731182795699, 0.7706989247311828, 0.7728494623655914, 0.7803763440860215, 0.7981182795698926, 0.7967741935483871, 0.8029569892473118, 0.814247311827957, 0.8150537634408602, 0.8244623655913978, 0.8268817204301074, 0.8279569892473119, 0.8344086021505376, 0.17299687825182103, 0.16693548387096774, 0.1474273527059451, 0.13836310317248735, 0.13516395627832578, 0.13139260424862312, 0.1272258064516129, 0.12431156569630213, 0.12283870967741936, 0.0998805256869773, 0.1010752688172043, 0.08848566308243727, 0.08624094799210007, 0.07436112274821952, 0.06451612903225806, 0.060249189281447346, 0.06432637571157496, 0.051900351325455125, 0.04381958321438766, 0.04099462365591398, 0.0381000762001524, 0.030453417550191743, 0.027834717876793612, 0.02265143088279907, 0.02200210378681627, 0.01722376295431324, 0.013318670576735093, 0.011918880455407968, 0.010502625656414103, 0.006966871076599296, 0.006264328844974006, 0.005039406990712256, 0.0032991202346041057, 0.0027732407785490674, 0.002104909734239004, 0.0019258545979778526, 0.0013649121457956863, 0.0010094446161902299, 0.000725482575463143, 0.0005859537271467114, 0.0003406742321581334, 0.00022504856746658193, 0.00017896290993691557, 0.00012019691390068598, 9.869642389957404e-05, 6.763238135163571e-05, 4.260203937293792e-05, 2.9751330511464714e-05, 1.7664053068070838e-05, 1.3399216475325123e-05, 7.80839129410453e-06, 4.518237049084572e-06,]
+# plt.plot(esno_bch_31_21_supercode_3_matrix_1_iter, fer_bch_31_21_supercode_3_matrix_1_iter, label="BCJR(31,21) supercode(3,1)", linewidth=2)
+plt.plot(esno_bch_31_21_supercode_3_matrix_1_iter, ber_bch_31_21_supercode_3_matrix_1_iter, label="BCJR(31,21) supercode(3,1)", linewidth=2)
 
-esno_bch_31_21_supercode_3_matrix_2_iter = []
-fer_bch_31_21_supercode_3_matrix_2_iter = []
-ber_bch_31_21_supercode_3_matrix_2_iter = []
+esno_bch_31_21_supercode_3_matrix_2_iter = [-10, -9.8, -9.6, -9.4, -9.2, -9.0, -8.8, -8.6, -8.4, -8.2, -8.0, -7.8, -7.6, -7.4, -7.2, -7.0, -6.8, -6.6, -6.4, -6.2, -6.0, -5.8, -5.6, -5.4, -5.2, -5.0, -4.8, -4.6, -4.4, -4.2, -4.0, -3.8, -3.6, -3.4, -3.2, -3.0, -2.8, -2.6, -2.4, -2.2, -2.0, -1.8, -1.6, -1.4, -1.2, -1.0, -0.8, -0.6, -0.4, -0.2, -0.0, 0.2, 0.4, 0.6, 0.8, 1.0, 1.2, 1.4, 1.6, 1.8, 2.0, 2.2, 2.4, 2.6, 2.8, 3.0, 3.2, 3.4, 3.6, 3.8, 4.0, 4.2, 4.4, 4.6, 4.8, 5.0, 5.2, 5.4,]
+fer_bch_31_21_supercode_3_matrix_2_iter = [1.0, 1.0, 1.0, 1.0, 1.0, 1.0, 1.0, 1.0, 1.0, 1.0, 1.0, 1.0, 1.0, 1.0, 1.0, 1.0, 1.0, 1.0, 1.0, 1.0, 1.0, 1.0, 1.0, 1.0, 1.0, 1.0, 1.0, 1.0, 1.0, 1.0, 1.0, 1.0, 1.0, 1.0, 1.0, 0.9917355371900827, 0.9836065573770492, 0.9917355371900827, 0.967741935483871, 0.9230769230769231, 0.9448818897637795, 0.8695652173913043, 0.8695652173913043, 0.8391608391608392, 0.851063829787234, 0.7692307692307693, 0.718562874251497, 0.7142857142857143, 0.5581395348837209, 0.6349206349206349, 0.5607476635514018, 0.502092050209205, 0.39087947882736157, 0.4195804195804196, 0.37267080745341613, 0.31746031746031744, 0.27713625866050806, 0.1889763779527559, 0.17725258493353027, 0.18604651162790697, 0.1431980906921241, 0.0911854103343465, 0.08528784648187633, 0.06948465547191662, 0.05023022185014651, 0.03730183400683867, 0.040774719673802244, 0.019105238019423657, 0.017079419299743808, 0.012223693592747276, 0.0088008800880088, 0.00459911083857121, 0.0033743883921039312, 0.0024593187687010696, 0.001623750050742189, 0.0010316812105059536, 0.0006458140486082707, 0.00039911396699327494,]
+ber_bch_31_21_supercode_3_matrix_2_iter = [0.328494623655914, 0.33521505376344085, 0.32741935483870965, 0.30537634408602155, 0.31102150537634404, 0.3131720430107527, 0.30940860215053767, 0.3099462365591398, 0.31747311827956987, 0.28736559139784945, 0.28763440860215056, 0.2836021505376344, 0.2736559139784946, 0.25806451612903225, 0.27553763440860213, 0.2639784946236559, 0.275, 0.2545698924731183, 0.2411290322580645, 0.2413978494623656, 0.7672043010752688, 0.764516129032258, 0.7661290322580645, 0.7669354838709678, 0.7825268817204302, 0.7938172043010753, 0.7948924731182796, 0.8002688172043011, 0.7973118279569892, 0.814247311827957, 0.8174731182795699, 0.8206989247311828, 0.825, 0.8228494623655913, 0.8333333333333334, 0.17888563049853373, 0.1509783183500793, 0.15142628632364705, 0.13709677419354838, 0.12580645161290324, 0.12268224536449072, 0.11804581580177652, 0.11056568489948573, 0.10872997969772163, 0.0990619995424388, 0.10318444995864351, 0.0907861695962913, 0.09062980030721966, 0.0663165791447862, 0.07270865335381464, 0.06331022007838408, 0.05641787015791605, 0.04528738047704108, 0.04906383938642003, 0.04047285113203767, 0.03123399897593446, 0.02555315503240706, 0.01828803657607315, 0.015628722542526324, 0.01765441360340085, 0.012472091769959196, 0.007084027845867241, 0.0072907352637733, 0.0053981358686515865, 0.0037537638909518082, 0.0027976375505129004, 0.00286080694485548, 0.0013712630513941174, 0.0010559856018658807, 0.0007787675756669635, 0.0005133846718005134, 0.00026086354487594765, 0.00018686129268102416, 0.00013420476076513903, 8.598891397747614e-05, 5.491206443015559e-05, 3.038103723291596e-05, 1.9955698349663746e-05,]
 # plt.plot(esno_bch_31_21_supercode_3_matrix_2_iter, fer_bch_31_21_supercode_3_matrix_2_iter, label="BCJR(31,21) supercode(3,2)", linewidth=2)
+plt.plot(esno_bch_31_21_supercode_3_matrix_2_iter, ber_bch_31_21_supercode_3_matrix_2_iter, label="BCJR(31,21) supercode(3,2)", linewidth=2)
 
-esno_bch_31_21_supercode_3_matrix_3_iter = []
-fer_bch_31_21_supercode_3_matrix_3_iter = []
-ber_bch_31_21_supercode_3_matrix_3_iter = []
+esno_bch_31_21_supercode_3_matrix_3_iter = [-10, -9.8, -9.6, -9.4, -9.2, -9.0, -8.8, -8.6, -8.4, -8.2, -8.0, -7.8, -7.6, -7.4, -7.2, -7.0, -6.8, -6.6, -6.4, -6.2, -6.0, -5.8, -5.6, -5.4, -5.2, -5.0, -4.8, -4.6, -4.4, -4.2, -4.0, -3.8, -3.6, -3.4, -3.2, -3.0, -2.8, -2.6, -2.4, -2.2, -2.0, -1.8, -1.6, -1.4, -1.2, -1.0, -0.8, -0.6, -0.4, -0.2, -0.0, 0.2, 0.4, 0.6, 0.8, 1.0, 1.2, 1.4, 1.6, 1.8, 2.0, 2.2, 2.4, 2.6, 2.8, 3.0, 3.2, 3.4, 3.6, 3.8, 4.0, 4.2, 4.4, 4.6, 4.8,]
+fer_bch_31_21_supercode_3_matrix_3_iter = [1.0, 1.0, 1.0, 1.0, 1.0, 1.0, 1.0, 1.0, 1.0, 1.0, 1.0, 1.0, 1.0, 1.0, 1.0, 1.0, 1.0, 1.0, 1.0, 1.0, 1.0, 1.0, 1.0, 1.0, 1.0, 1.0, 1.0, 1.0, 1.0, 1.0, 1.0, 1.0, 1.0, 1.0, 1.0, 0.967741935483871, 0.967741935483871, 0.9375, 0.9375, 0.9302325581395349, 0.8571428571428571, 0.8, 0.8108108108108109, 0.8108108108108109, 0.7947019867549668, 0.6629834254143646, 0.6976744186046512, 0.6217616580310881, 0.4838709677419355, 0.502092050209205, 0.45454545454545453, 0.4316546762589928, 0.3468208092485549, 0.30848329048843187, 0.2926829268292683, 0.21505376344086022, 0.2376237623762376, 0.18838304552590268, 0.13029315960912052, 0.10743061772605192, 0.09302325581395349, 0.07566204287515763, 0.05042016806722689, 0.04352557127312296, 0.03487358326068003, 0.025657472738935216, 0.017513134851138354, 0.010923987255348202, 0.008900756564307966, 0.006086427267194157, 0.00422698932685195, 0.00211954217888936, 0.001405102865238926, 0.0009629968461853288, 0.0005524276895172242,]
+ber_bch_31_21_supercode_3_matrix_3_iter = [0.6827956989247312, 0.6774193548387097, 0.6690860215053764, 0.6943548387096775, 0.692741935483871, 0.6916666666666667, 0.6870967741935484, 0.7123655913978495, 0.7172043010752688, 0.7096774193548386, 0.7048387096774194, 0.7217741935483871, 0.728494623655914, 0.7338709677419355, 0.7274193548387097, 0.7470430107526881, 0.7360215053763441, 0.7438172043010753, 0.7577956989247312, 0.7610215053763442, 0.768010752688172, 0.7661290322580645, 0.7588709677419355, 0.7709677419354839, 0.7733870967741936, 0.7844086021505376, 0.7846774193548387, 0.8048387096774193, 0.8043010752688172, 0.8163978494623656, 0.8193548387096775, 0.8225806451612903, 0.8260752688172043, 0.839516129032258, 0.8360215053763441, 0.15998959417273675, 0.15166493236212278, 0.13785282258064516, 0.13180443548387097, 0.14428607151787948, 0.1294930875576037, 0.12236559139784947, 0.12772449869224062, 0.12009590235396686, 0.13116855372783592, 0.09784352165389414, 0.10596399099774945, 0.08942002339963229, 0.07453173777315297, 0.07261438790660009, 0.06366080156402737, 0.05871431886748666, 0.04531046056311766, 0.036653122149431956, 0.03878835562549174, 0.028037923459359463, 0.029064196742254873, 0.022028662581657976, 0.014395292634233477, 0.012389176076472117, 0.01005251312828207, 0.007667900581702803, 0.005516400108430469, 0.004118548679607334, 0.00317799589391681, 0.0023312434907957263, 0.0015630002071446057, 0.0010395407226863613, 0.0008039393025826549, 0.0005595586358549468, 0.0003647482725589989, 0.00017434943729573767, 0.00011444789466865445, 7.429572442343799e-05, 3.890754157352493e-05,]
 # plt.plot(esno_bch_31_21_supercode_3_matrix_3_iter, fer_bch_31_21_supercode_3_matrix_3_iter, label="BCJR(31,21) supercode(3,3)", linewidth=2)
+plt.plot(esno_bch_31_21_supercode_3_matrix_3_iter, ber_bch_31_21_supercode_3_matrix_3_iter, label="BCJR(31,21) supercode(3,3)", linewidth=2)
 
 
-esno_bch_31_21_supercode_3_matrix_4_iter = []
-fer_bch_31_21_supercode_3_matrix_4_iter = []
-ber_bch_31_21_supercode_3_matrix_4_iter = []
+esno_bch_31_21_supercode_3_matrix_4_iter = [-10, -9.8, -9.6, -9.4, -9.2, -9.0, -8.8, -8.6, -8.4, -8.2, -8.0, -7.8, -7.6, -7.4, -7.2, -7.0, -6.8, -6.6, -6.4, -6.2, -6.0, -5.8, -5.6, -5.4, -5.2, -5.0, -4.8, -4.6, -4.4, -4.2, -4.0, -3.8, -3.6, -3.4, -3.2, -3.0, -2.8, -2.6, -2.4, -2.2, -2.0, -1.8, -1.6, -1.4, -1.2, -1.0, -0.8, -0.6, -0.4, -0.2, -0.0, 0.2, 0.4, 0.6, 0.8, 1.0, 1.2, 1.4, 1.6, 1.8, 2.0, 2.2, 2.4, 2.6, 2.8, 3.0, 3.2, 3.4, 3.6, 3.8, 4.0, 4.2, 4.4, 4.6,]
+fer_bch_31_21_supercode_3_matrix_4_iter = [1.0, 1.0, 1.0, 1.0, 1.0, 1.0, 1.0, 1.0, 1.0, 1.0, 1.0, 1.0, 1.0, 1.0, 1.0, 1.0, 1.0, 1.0, 1.0, 1.0, 1.0, 1.0, 1.0, 1.0, 1.0, 1.0, 1.0, 1.0, 1.0, 1.0, 1.0, 1.0, 1.0, 1.0, 1.0, 1.0, 1.0, 0.9836065573770492, 0.96, 0.8571428571428571, 0.8275862068965517, 0.759493670886076, 0.7843137254901961, 0.7142857142857143, 0.7142857142857143, 0.6666666666666666, 0.5217391304347826, 0.5357142857142857, 0.5357142857142857, 0.5042016806722689, 0.4444444444444444, 0.40955631399317405, 0.3560830860534125, 0.2733485193621868, 0.2222222222222222, 0.24193548387096775, 0.192, 0.14423076923076922, 0.10909090909090909, 0.11363636363636363, 0.07537688442211055, 0.05188067444876784, 0.04302617425600574, 0.0332409972299169, 0.027353544563483018, 0.015414258188824663, 0.014072944763691803, 0.008251392422471292, 0.00693000693000693, 0.00429000429000429, 0.002230358901919967, 0.0017272897384595454, 0.0012943308309603934, 0.0006684901592677805, ]
+ber_bch_31_21_supercode_3_matrix_4_iter = [0.32983870967741935, 0.31612903225806455, 0.3131720430107527, 0.31451612903225806, 0.31397849462365596, 0.31962365591397845, 0.31666666666666665, 0.2986559139784946, 0.3, 0.28655913978494624, 0.2887096774193549, 0.2887096774193549, 0.2803763440860215, 0.282258064516129, 0.25725806451612904, 0.2741935483870968, 0.24919354838709676, 0.24623655913978493, 0.24301075268817204, 0.2446236559139785, 0.7583333333333333, 0.7639784946236559, 0.7639784946236559, 0.7704301075268817, 0.7865591397849463, 0.796505376344086, 0.7876344086021505, 0.8051075268817204, 0.7946236559139785, 0.817741935483871, 0.8, 0.8172043010752688, 0.8279569892473119, 0.8301075268817204, 0.8290322580645161, 0.17204301075268816, 0.17204301075268816, 0.14569011105235324, 0.13496774193548386, 0.12027649769585254, 0.13459399332591768, 0.1322988975091874, 0.13725490196078433, 0.12211981566820276, 0.1205837173579109, 0.10949820788530466, 0.08527349228611501, 0.08640552995391705, 0.08683755760368664, 0.0801030089455137, 0.06499402628434886, 0.058901244082351645, 0.04833923614434766, 0.03931221985450804, 0.03106332138590203, 0.031087408949011446, 0.02544516129032258, 0.017951302729528537, 0.01310850439882698, 0.01386852394916911, 0.009604473982817312, 0.0063177272917451155, 0.004985021802241525, 0.0035832365293539453, 0.0029706537644212743, 0.0016781652060413948, 0.0015926639100844755, 0.0009027733107381226, 0.0007321216998636353, 0.00045552464907303616, 0.0002308301551718246, 0.0001764435754340396, 0.0001245619455601669, 6.66693142710609e-05,]
 # plt.plot(esno_bch_31_21_supercode_3_matrix_4_iter, fer_bch_31_21_supercode_3_matrix_4_iter, label="BCJR(31,21) supercode(3,4)", linewidth=2)
-
+plt.plot(esno_bch_31_21_supercode_3_matrix_4_iter, ber_bch_31_21_supercode_3_matrix_4_iter, label="BCJR(31,21) supercode(3,4)", linewidth=2)
 
 esno_bch_31_21_supercode_3_matrix_5_iter = []
 fer_bch_31_21_supercode_3_matrix_5_iter = []
-ber_bch_31_21_supercode_3_matrix_5_iter = []
-# plt.plot(esno_bch_31_21_supercode_3_matrix_5_iter, fer_bch_31_21_supercode_3_matrix_5_iter, label="BCJR(31,21) supercode(3,5)", linewidth=2)
+# ber_bch_31_21_supercode_3_matrix_5_iter = []
+plt.plot(esno_bch_31_21_supercode_3_matrix_5_iter, fer_bch_31_21_supercode_3_matrix_5_iter, label="BCJR(31,21) supercode(3,5)", linewidth=2)
 
 
 plt.yscale("log")  # Логарифмическая шкала по Y
 plt.xlabel("EsNo [dB]")
-plt.ylabel("FER")
+plt.ylabel("BER")
 plt.title("BCH(31, 21)")
 plt.legend()
 plt.grid(True, which="both", linestyle="--")
-plt.savefig('modeling_results/BCH(31,21)_complex_awgn_FER.png', dpi=300, bbox_inches='tight')
+plt.savefig('modeling_results/BCH(31,21)_complex_awgn_BER.png', dpi=300, bbox_inches='tight')
